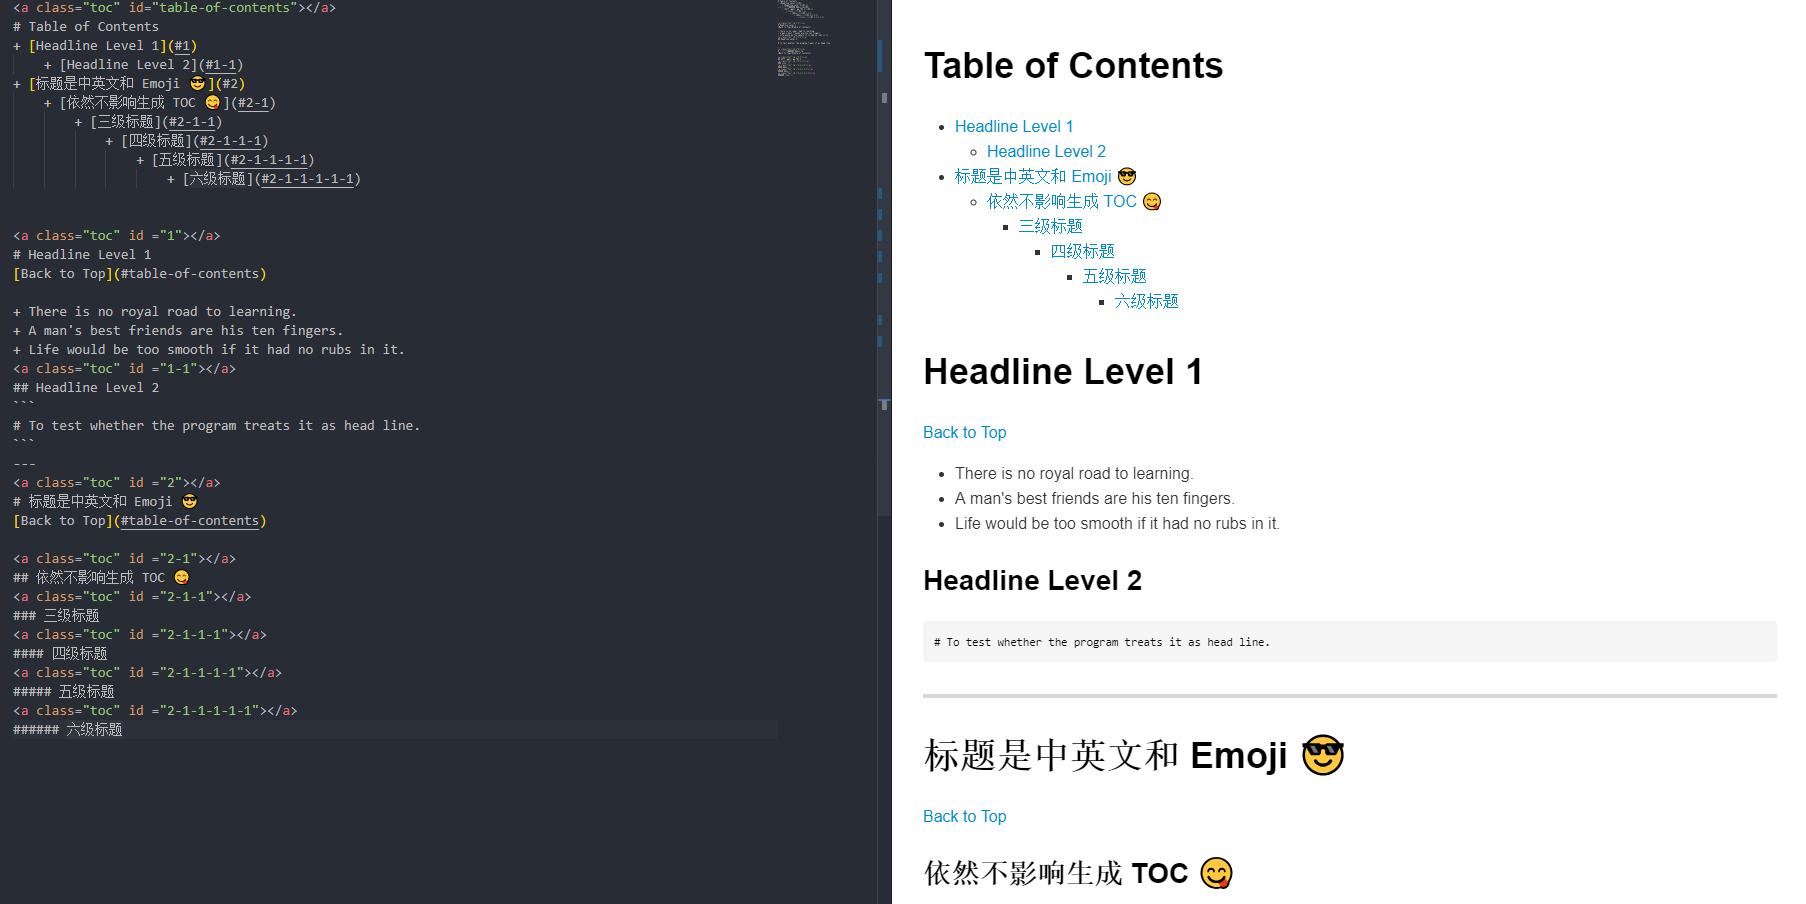
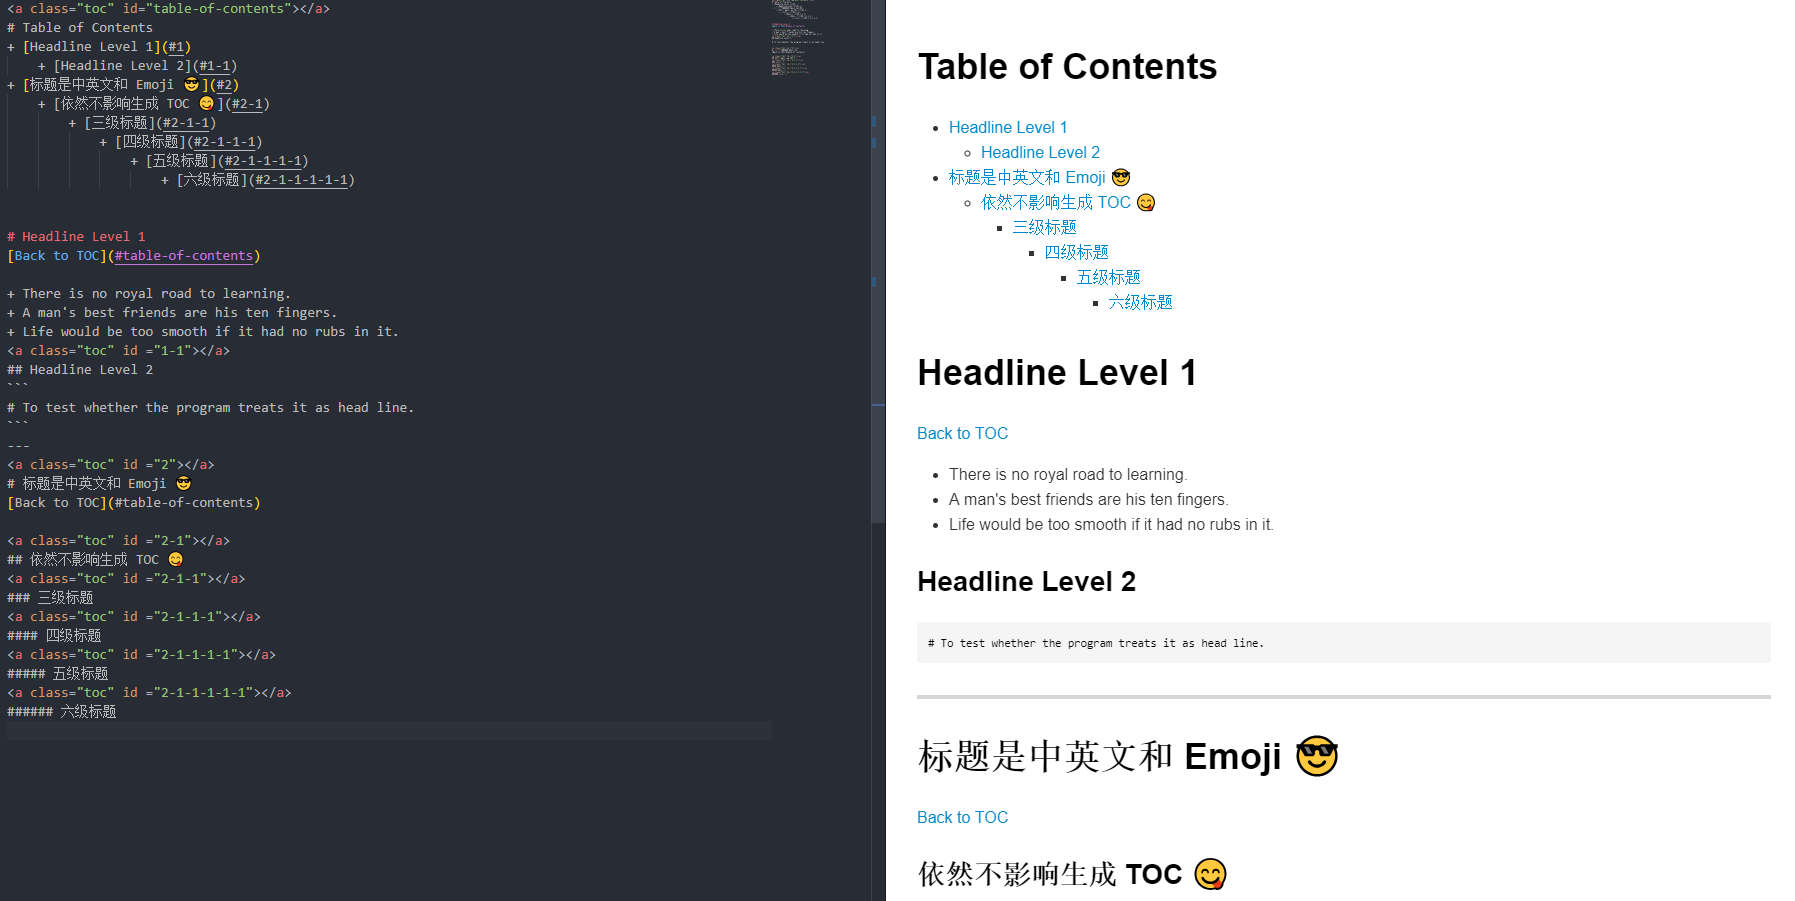
fix some bugs and new custom functionality has been added

diff --git a/src/Generate_TOC.py b/src/Generate_TOC.py
@@ -43,7 +43,7 @@ def parse_input_file(input_filename):
                 output_file.append(line_above)
                 output_file.append(line)
                 if pos == 1:
-                    output_file.append('[Back to Top](#table-of-contents)\n\n')
+                    output_file.append('[Back to TOC](#table-of-contents)\n\n')
             else:
                 output_file.append(line)
                 if line.startswith('```'):
@@ -51,24 +51,26 @@ def parse_input_file(input_filename):
     return table_of_contents, output_file
 
 
-def write_back(output_filename, table_of_contents, output_file):
+def write_back(output_filename, table_of_contents, output_file, placeholder):
+    # for pretty, add two lines
+    table_of_contents.append('\n' * 2)
+    placeholder += '\n'
+    toc_pos = output_file.index(placeholder) if placeholder in output_file else 0
     with open(output_filename, 'w', encoding='utf-8') as f:
-        for line in table_of_contents:
-            f.write(line)
-        # for pretty, add two lines
-        f.write('\n\n')
-        for line in output_file:
-            f.write(line)
+        f.writelines(output_file[:toc_pos])
+        f.writelines(table_of_contents)
+        f.writelines(output_file[toc_pos+1:])
 
 
 def parse_args():
     parser = argparse.ArgumentParser(description='Generate TOC for your Markdown file.')
     parser.add_argument('input_filename', metavar='input_filename', type=str,
-                        help='The file that need to generate TOC.')
+                        help='The file that need to generate TOC. You must spacify the input filename.')
     parser.add_argument('output_filename', metavar='output_filename', type=str, nargs='?',
                         help='The newly generated file with TOC from the original file.\
-                        If the parameter is omitted, The original file will be overwritten with the newly generated file.\
-                            i.e., default: output_filename = input_filename.')
+                        If the parameter is omitted, The original file will be overwritten with the newly generated file. NOTE: output_filename=input_filename in default.')
+    parser.add_argument('placeholder', metavar='placeholder', type=str, nargs='?',
+                        default='~~placeholder~~', help='Specify the placeholder, and it will generate TOC at the position of placeholder, otherwise the TOC will generate at the top. NOTE: placeholder="~~placeholder~~" in default.')
     return parser.parse_args()
 
 
@@ -76,6 +78,7 @@ if __name__ == '__main__':
     args = parse_args()
     input_filename = args.input_filename
     output_filename = args.output_filename
+    placeholder = args.placeholder
     if not output_filename:
         confirm = input('You did not enter output_filename. Would you like to replace your original file with newly generated file? [Yes/No]\n')
         if confirm.strip().lower() != 'yes':
@@ -86,5 +89,5 @@ if __name__ == '__main__':
     print(f'### Generating markdown toc from {input_filename}, and wtite back to {output_filename}...')
 
     table_of_contents, output_file = parse_input_file(input_filename)
-    write_back(output_filename, table_of_contents, output_file)
+    write_back(output_filename, table_of_contents, output_file, placeholder)
     print('### Already generating markdown toc')

diff --git a/src/Recover.py b/src/Recover.py
@@ -2,24 +2,24 @@ import argparse
 
 
 def recovery_file(recovery_filename):
-    head_lines = 2  # head_lines = 3 since add 2 blank lines when generated TOC
+    head_lines = 2
+    # head_lines = 3 since add 2 blank lines when generated TOC
     output_file = []
-    back_to_top = False
+    last_line = ''
     with open(recovery_filename, 'r', encoding='utf-8') as f:
         for line in f:
-            if line.startswith('<a class="toc"'):
-                head_lines += 1
-            elif line.startswith('[Back to Top]'):
-                back_to_top = True
-            else:
-                # Because I add 1 blank line above when generated [Back to Top]
-                if not back_to_top:
+            if not line.startswith(('<a class="toc"', '[Back to TOC]')):
+                # Because I add 1 blank line above when generated [Back to TOC]
+                if not last_line.startswith('[Back to TOC]'):
                     output_file.append(line)
-                else:
-                    back_to_top = False
-
+            elif line.startswith('<a class="toc"'):
+                head_lines += 1
+            last_line = line
+    toc_pos = output_file.index('# Table of Contents\n')
     with open(recovery_filename, 'w', encoding='utf-8') as f:
-        for line in output_file[head_lines:]:
+        for line in output_file[:toc_pos]:
+            f.write(line)
+        for line in output_file[toc_pos+head_lines:]:
             f.write(line)
 
 

diff --git a/README.md b/README.md
@@ -5,44 +5,50 @@
 + [Usage](#3)
 	+ [Generate_TOC](#3-1)
 	+ [Recovery](#3-2)
-+ [Example](#4)
++ [Generate TOC at the top (Default)](#4)
 	+ [Input File](#4-1)
 	+ [Output File](#4-2)
++ [Generate TOC at anywhere (Customized)](#5)
+	+ [Input File](#5-1)
+	+ [Output File](#5-2)
 
 
-<a class="toc" id ="1"></a>
 # Generate Markdown TOC
-[Back to Top](#table-of-contents)
+[Back to TOC](#table-of-contents)
 
 Since GitHub cannot automatically generate TOC using the TOC command, Inspired by [Markdown toclify](https://github.com/rasbt/markdown-toclify), I write a script that could help you generate TOC in your file， Even the head line with Chinese and Emoji.
 
 <a class="toc" id ="2"></a>
 # Requires
-[Back to Top](#table-of-contents)
+[Back to TOC](#table-of-contents)
 
 + Python 3.6+ (Since I used f-strings)
 + argparse
 
 <a class="toc" id ="3"></a>
 # Usage
-[Back to Top](#table-of-contents)
-
+[Back to TOC](#table-of-contents)
 
 <a class="toc" id ="3-1"></a>
 ## Generate_TOC
 You can use comman like that:
 ```bash
 $  python .\src\Generate_TOC.py -h
-usage: Generate_TOC.py [-h] input_filename [output_filename]
+usage: Generate_TOC.py [-h] input_filename [output_filename] [placeholder]
 
 Generate TOC for your Markdown file.
 
 positional arguments:
-  input_filename   The file that need to generate TOC.
+  input_filename   The file that need to generate TOC. You must spacify the
+                   input filename.
   output_filename  The newly generated file with TOC from the original file.
                    If the parameter is omitted, The original file will be
-                   overwritten with the newly generated file. i.e., default:
-                   output_filename = input_filename.
+                   overwritten with the newly generated file. NOTE:
+                   output_filename=input_filename in default.
+  placeholder      Specify the placeholder, and it will generate TOC at the
+                   position of placeholder, otherwise the TOC will generate at
+                   the top. NOTE: placeholder="~~placeholder~~" in
+                   default.
 
 optional arguments:
   -h, --help       show this help message and exit
@@ -50,7 +56,10 @@ optional arguments:
 ```
 You can specify the file name to generate the TOC, as well as the output file name
 **Note**: If you do not specify `output_filename`, it overwrites the original file by default.
-
+And if you want generate TOC wherever you want, You can add a line `~~placeholder~~` at your markdown file. Besides, you can add some `Customized placeholder`, but you must spacify the placeholder at the command line, for example:
+```bash
+  $  python .\src\Generate_TOC.py .\input.md .\output.md ~~TOC_Here~~
+```
 
 <a class="toc" id ="3-2"></a>
 ## Recovery
@@ -71,23 +80,39 @@ You can specify the file name you want to recover, and remove the TOC from it to
 **Note**: Before using the script, make sure the file is generated by `Generate_TOC.py`, otherwise some wrong would be happen.
 
 <a class="toc" id ="4"></a>
-# Example
-[Back to Top](#table-of-contents)
+# Generate TOC at the top (Default)
+[Back to TOC](#table-of-contents)
 
 <a class="toc" id ="4-1"></a>
 ## Input File
+![example_1](images/example_1.png)
+<a class="toc" id ="4-2"></a>
+## Output File
 ```bash
 $  python .\src\Generate_TOC.py .\input.md .\output.md
 ### Generating markdown toc from ..\input.md, and wtite back to ..\output.md...
 ### Already generating markdown toc
 ```
-![example_1](images/example_1.png)
-<a class="toc" id ="4-2"></a>
+![example_2](images/example_2.png)
+<a class="toc" id ="5"></a>
+# Generate TOC at anywhere (Customized)
+[Back to TOC](#table-of-contents)
+
+You can add a line `~~placeholder~~` at your markdown file, at which the TOC will generate.
+Besides, you can add some `Customized placeholder`, but you must spacify the placeholder at the command line, for example:
+```bash
+  $  python .\src\Generate_TOC.py .\input.md .\output.md ~~TOC_Here~~
+```
+<a class="toc" id ="5-1"></a>
+## Input File
+![example_1](images/example_3.png)
+<a class="toc" id ="5-2"></a>
 ## Output File
 ```bash
-$  python .\src\Recover.py .\output.md
-### Recover from file: ..\output.md [Yes/No]
-yes
-### Recovery done
+$  python .\src\Generate_TOC.py .\input.md .\output.md
+### Generating markdown toc from ..\input.md, and wtite back to ..\output.md...
+### Already generating markdown toc
 ```
-![example_2](images/example_2.png)
+![example_2](images/example_4.png)
+
+

diff --git a/output.md b/output.md
@@ -1,3 +1,16 @@
+<a class="toc" id ="1"></a>
+# Headline Level 1
+[Back to TOC](#table-of-contents)
+
++ There is no royal road to learning.
++ A man's best friends are his ten fingers.
++ Life would be too smooth if it had no rubs in it.
+<a class="toc" id ="1-1"></a>
+## Headline Level 2
+```
+# To test whether the program treats it as head line.
+```
+---
 <a class="toc" id="table-of-contents"></a>
 # Table of Contents
 + [Headline Level 1](#1)
@@ -10,22 +23,9 @@
 					+ [六级标题](#2-1-1-1-1-1)
 
 
-<a class="toc" id ="1"></a>
-# Headline Level 1
-[Back to Top](#table-of-contents)
-
-+ There is no royal road to learning.
-+ A man's best friends are his ten fingers.
-+ Life would be too smooth if it had no rubs in it.
-<a class="toc" id ="1-1"></a>
-## Headline Level 2
-```
-# To test whether the program treats it as head line.
-```
----
 <a class="toc" id ="2"></a>
 # 标题是中英文和 Emoji 😎
-[Back to Top](#table-of-contents)
+[Back to TOC](#table-of-contents)
 
 <a class="toc" id ="2-1"></a>
 ## 依然不影响生成 TOC 😋

diff --git a/input.md b/input.md
@@ -7,6 +7,7 @@
 # To test whether the program treats it as head line.
 ```
 ---
+~~placeholder~~
 # 标题是中英文和 Emoji 😎
 ## 依然不影响生成 TOC 😋
 ### 三级标题
